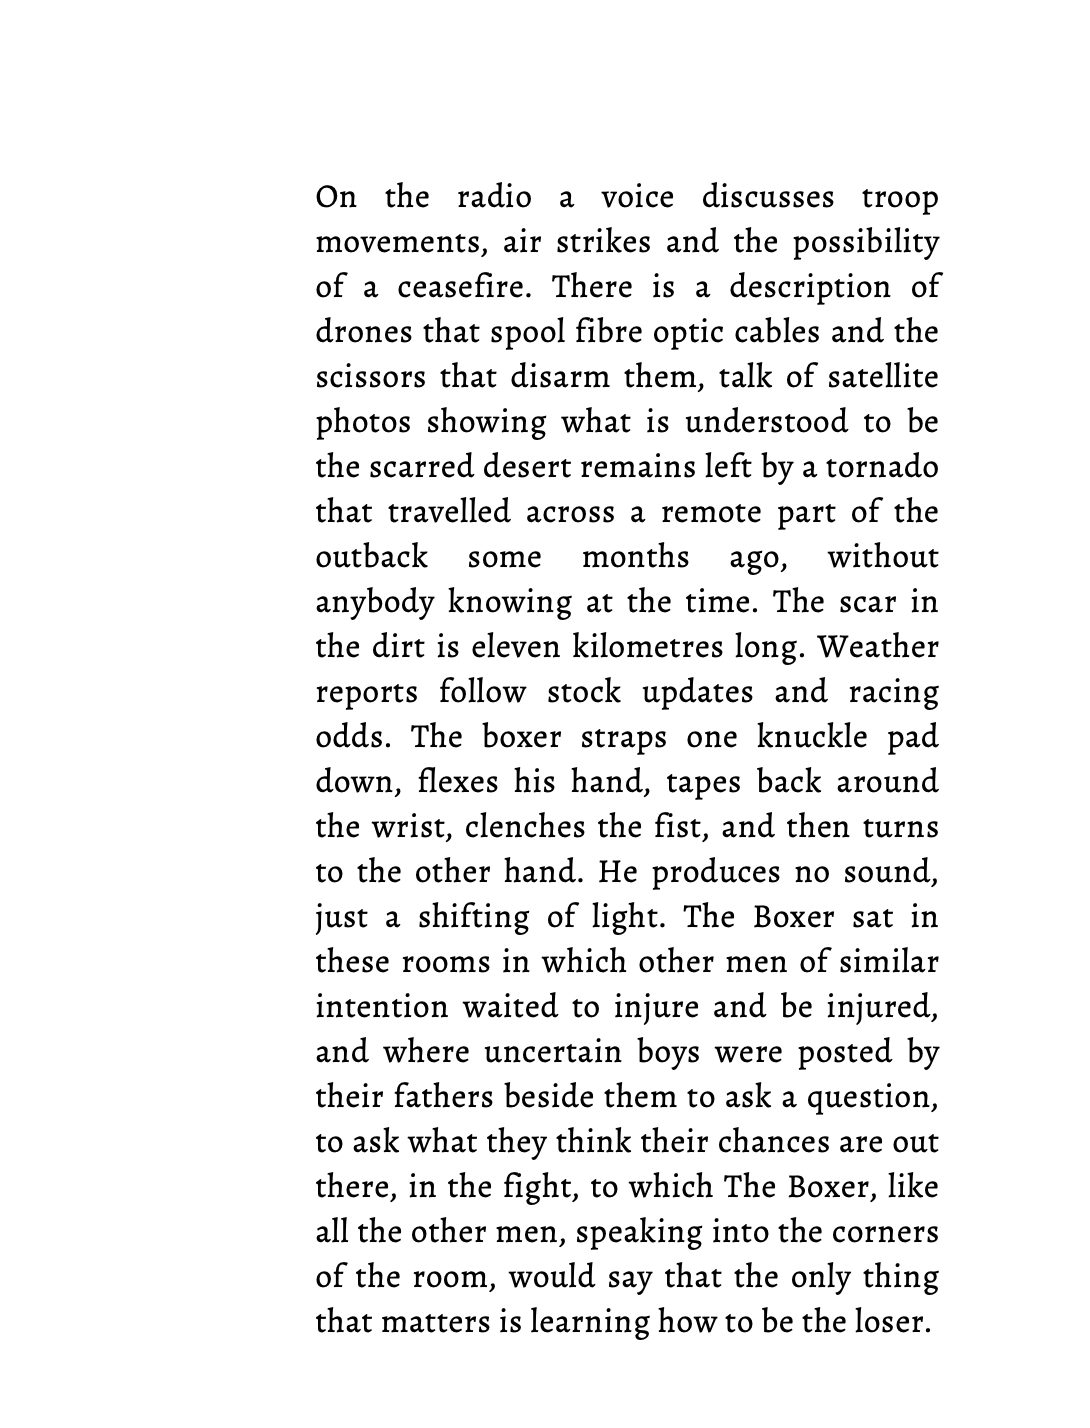
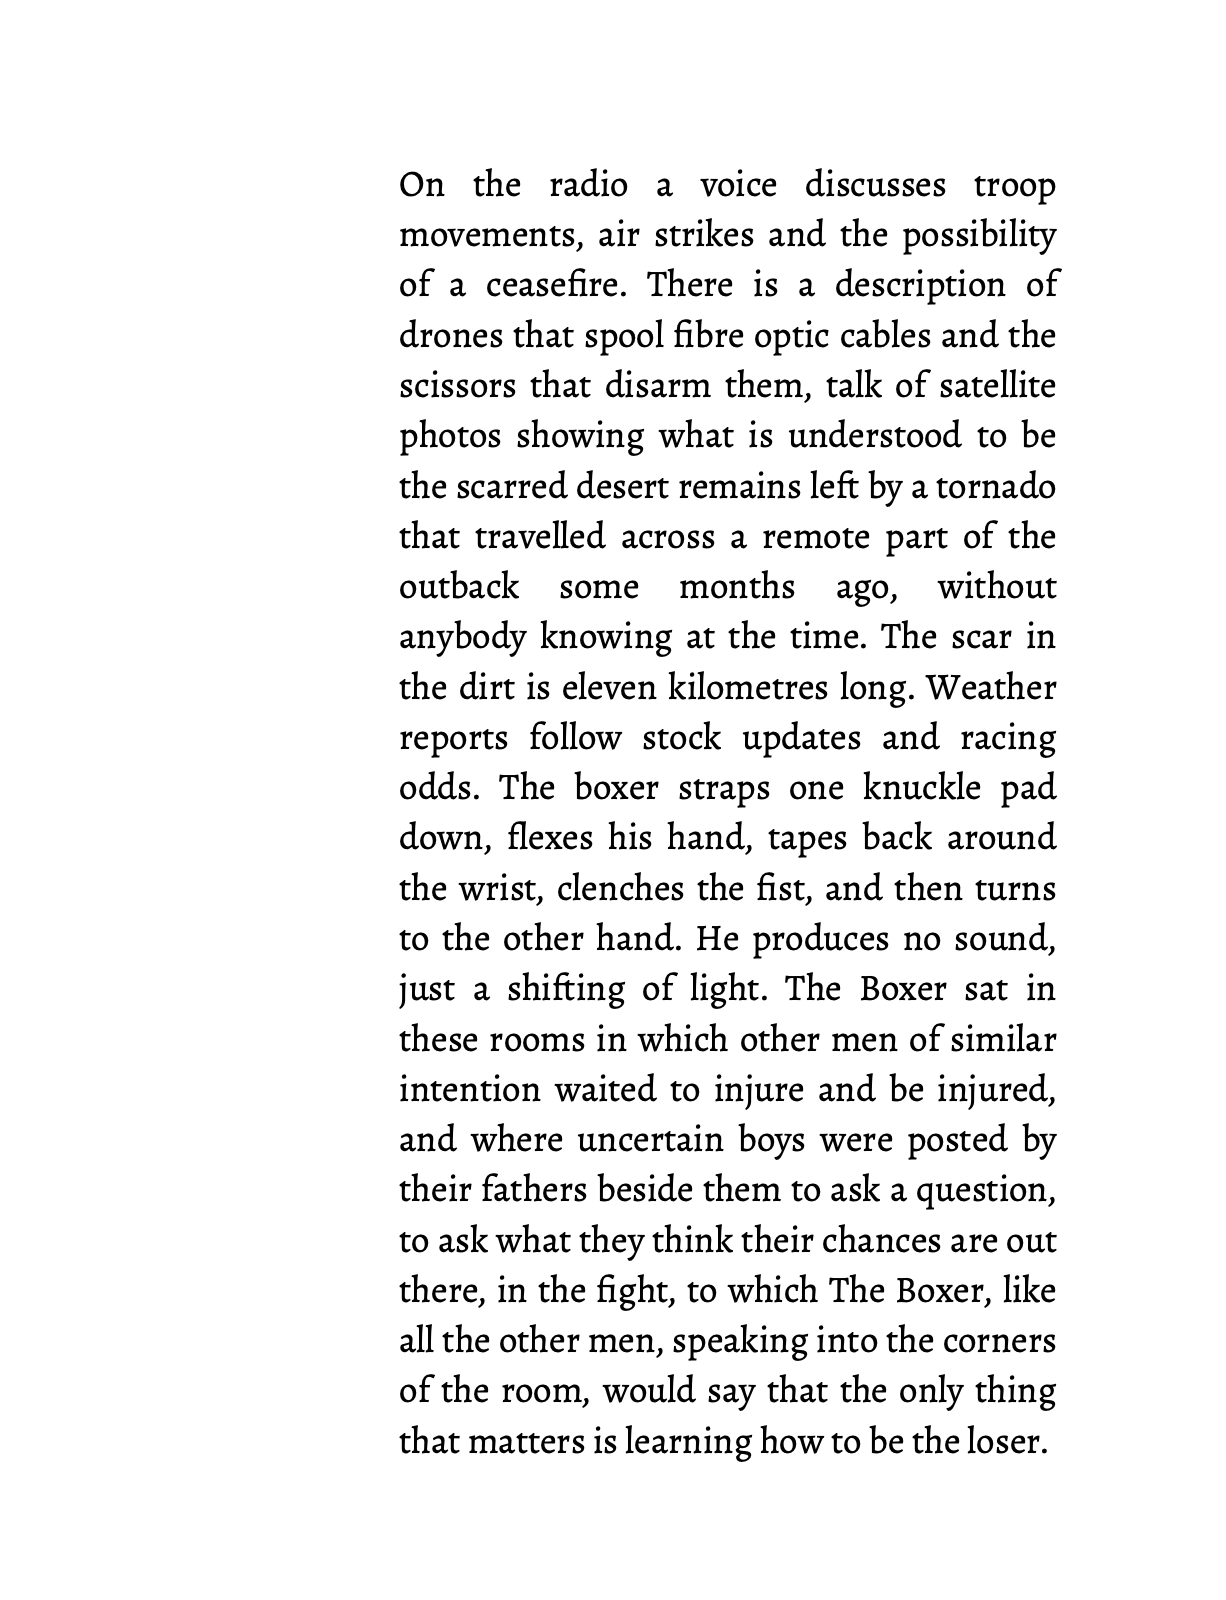
Update Page 24 and add Pages 25-30

Changed region(s): [[0.2807, 0.0924, 0.8734, 0.9552]]

diff --git a/progress/index.html b/progress/index.html
@@ -361,6 +361,12 @@
             'pages/Page%2022.png',
             'pages/Page%2023.png',
             'pages/Page%2024.png',
+            'pages/Page%2025.png',
+            'pages/Page%2026.png',
+            'pages/Page%2027.png',
+            'pages/Page%2028.png',
+            'pages/Page%2029.png',
+            'pages/Page%2030.png',
         ];
 
         const MOBILE_BREAKPOINT = 768;
